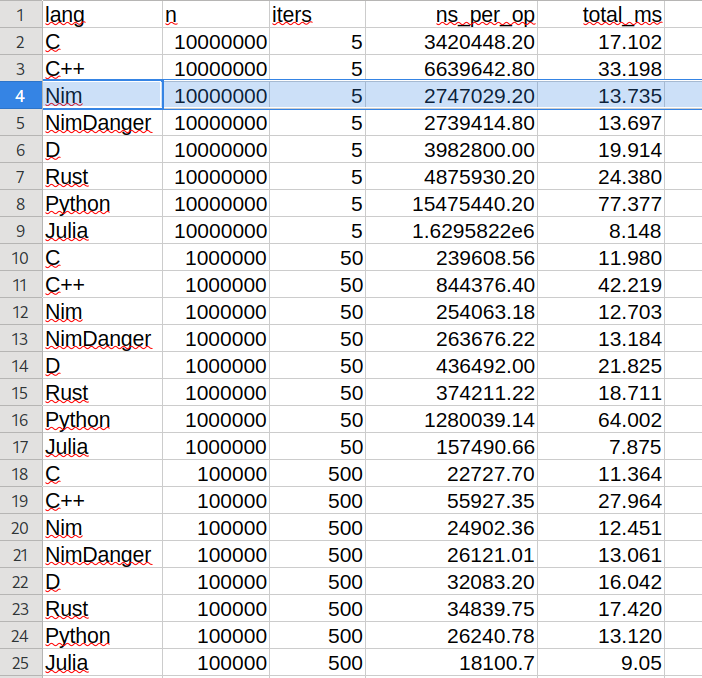
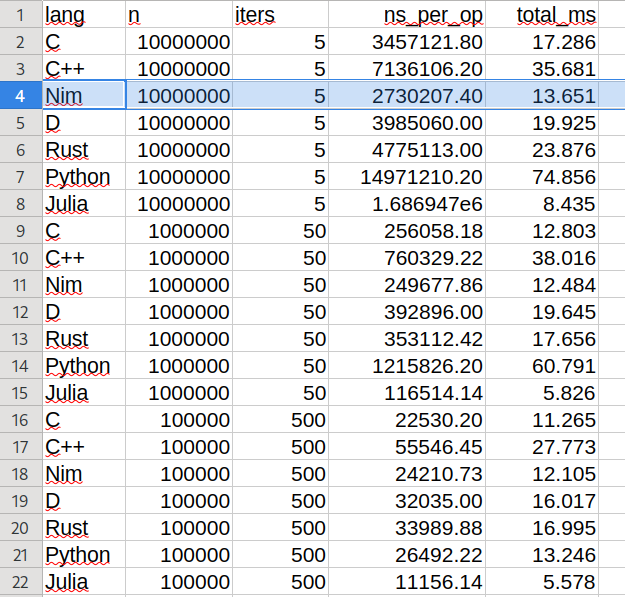
Updated the bench

diff --git a/README.md b/README.md
@@ -13,7 +13,7 @@ Given a binary string, rearrange its bits to form the **maximum possible number*
 ## Results
 
 <p align="center">
-  <img src="./results/Results.png" alt="Results on Fedora Linux" width="600">
+  <img src="./results/Results.png" alt="Results on Fedora Linux" width="800">
 </p>
 
 
